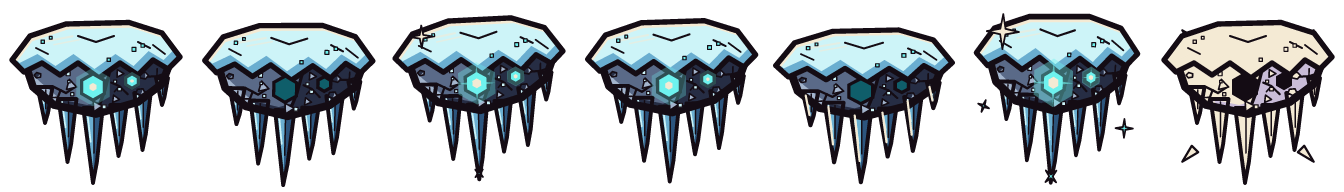
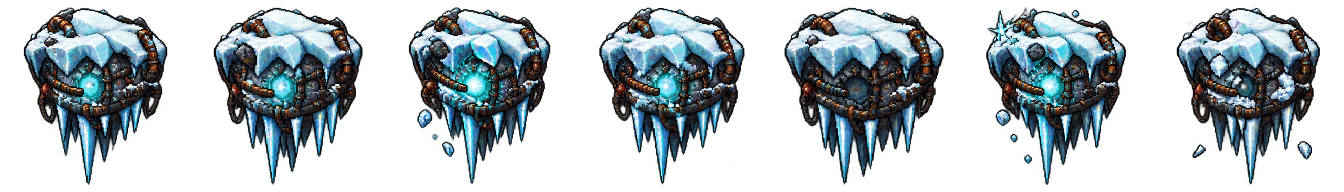
art: rebuild rugged frost chunk rock

diff --git a/docs/art-production-queue.md b/docs/art-production-queue.md
@@ -40,7 +40,7 @@ Every numbered line is a separate commit/merge unit unless it explicitly says
 23. **Installed, validated — `space_rock_crater`**
 24. **Installed, validated — `space_rock_cluster`**
 25. **Installed, validated — `space_rock_dark`**
-26. **Queued — `frost_rock_chunk`**
+26. **Installed and validated — `frost_rock_chunk`** — rugged copper-braced frozen industrial chunk with a cyan pressure core; seven-cell strip vetted for safe cell margins and flipbook continuity.
 27. **Queued — `frost_rock_rime`**
 28. **Installed, validated — `frost_rock_shard`** — rugged Frost ice-shard industrial hazard; 7-frame strip vetted for safe cell margins and roster validation.
 29. **Installed, validated — `verdant_rock_spore`** — rugged grass-capped bio-industrial Spore Rock; floating 7-frame strip preserves its mandated key silhouette and safe cell margins.
